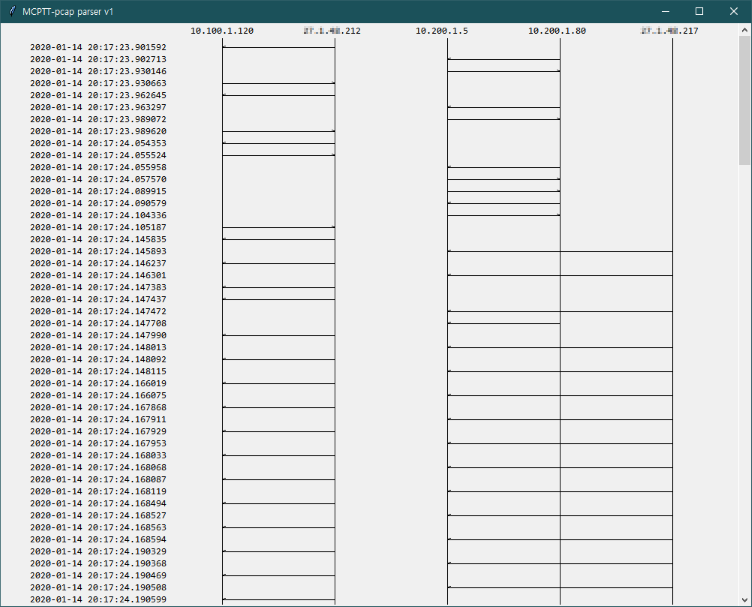
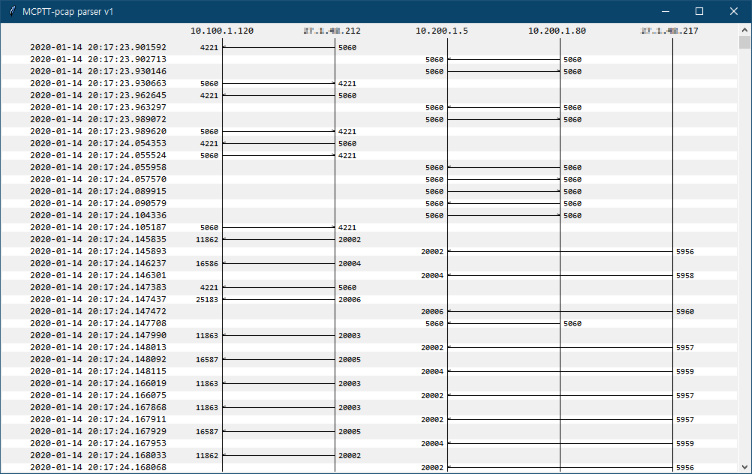
Added sport, dport

diff --git a/pcap_app.py b/pcap_app.py
@@ -77,6 +77,7 @@ class AppWindow():
         self.canvas.pack(side=tk.LEFT, expand=tk.YES, fill=tk.BOTH)
 
         self.font = tkfont.Font(family="Consolas", size=9)
+        self.font2 = tkfont.Font(family="Consolas", size=8)
 
         self.row_count = 0
         # self.slots = []
@@ -115,6 +116,10 @@ class AppWindow():
     def draw(self, t, sip, sport, dip, dport):
         y = self.row_count * 16 + 30
 
+        # background
+        if self.row_count % 2:
+            self.canvas.create_rectangle(0, y-5, 1000, y+5, outline="#FFF", fill="#FFF")
+
         # slot 0: timestamp
         self._draw_on_canvas(30, y, t)
         sslotnum = self.get_slotnum_by_ip(sip)
@@ -133,11 +138,24 @@ class AppWindow():
             self.canvas.create_line(
                 self.xpos_by_slotnum(sslotnum) + xoffset, y + yoffset,
                 self.xpos_by_slotnum(sslotnum) + xoffset + 5, y + yoffset - 3)
+            # left portnum sport
+            self.canvas.create_text(self.xpos_by_slotnum(sslotnum) + xoffset - 20, y + yoffset,
+                text=f'{str(sport):>5}', font=self.font2)
+            # right portnum sport
+            self.canvas.create_text(self.xpos_by_slotnum(dslotnum) + xoffset + 20, y + yoffset,
+                text=f'{str(dport):<5}', font=self.font2)
         else:
             # right to left
             self.canvas.create_line(
                 self.xpos_by_slotnum(sslotnum) + xoffset, y + yoffset,
                 self.xpos_by_slotnum(sslotnum) + xoffset - 5, y + yoffset - 3)
+            # left portnum sport
+            self.canvas.create_text(self.xpos_by_slotnum(dslotnum) + xoffset - 20, y + yoffset,
+                text=f'{str(sport):>5}', font=self.font2)
+            # right portnum sport
+            self.canvas.create_text(self.xpos_by_slotnum(sslotnum) + xoffset + 20, y + yoffset,
+                text=f'{str(dport):<5}', font=self.font2)
+
         self.row_count += 1
 
     def update_height(self):
@@ -174,10 +192,11 @@ if __name__ == '__main__':
     i = 0
     for packet in j:
         # output(packet['pcap'])
-        app.draw(packet['time'], packet['sip'], packet['sport'], packet['dip'], packet['sport'])
+        app.draw(packet['time'], packet['sip'], packet['sport'], packet['dip'], packet['dport'])
         i += 1
-        if i > 200:
-            break
+        # if i > 200:
+        #     break
+    print('total packets:', i)
     app.update_height()
 
     w.mainloop()

diff --git a/README.md b/README.md
@@ -1,1 +1,5 @@
+* Using pyshark and tkinter
+* python 3.x
+
+### Screenshot
 ![screenshot](https://raw.githubusercontent.com/YUChoe/pcap-mcptt/master/assets/screenshot00.png)
